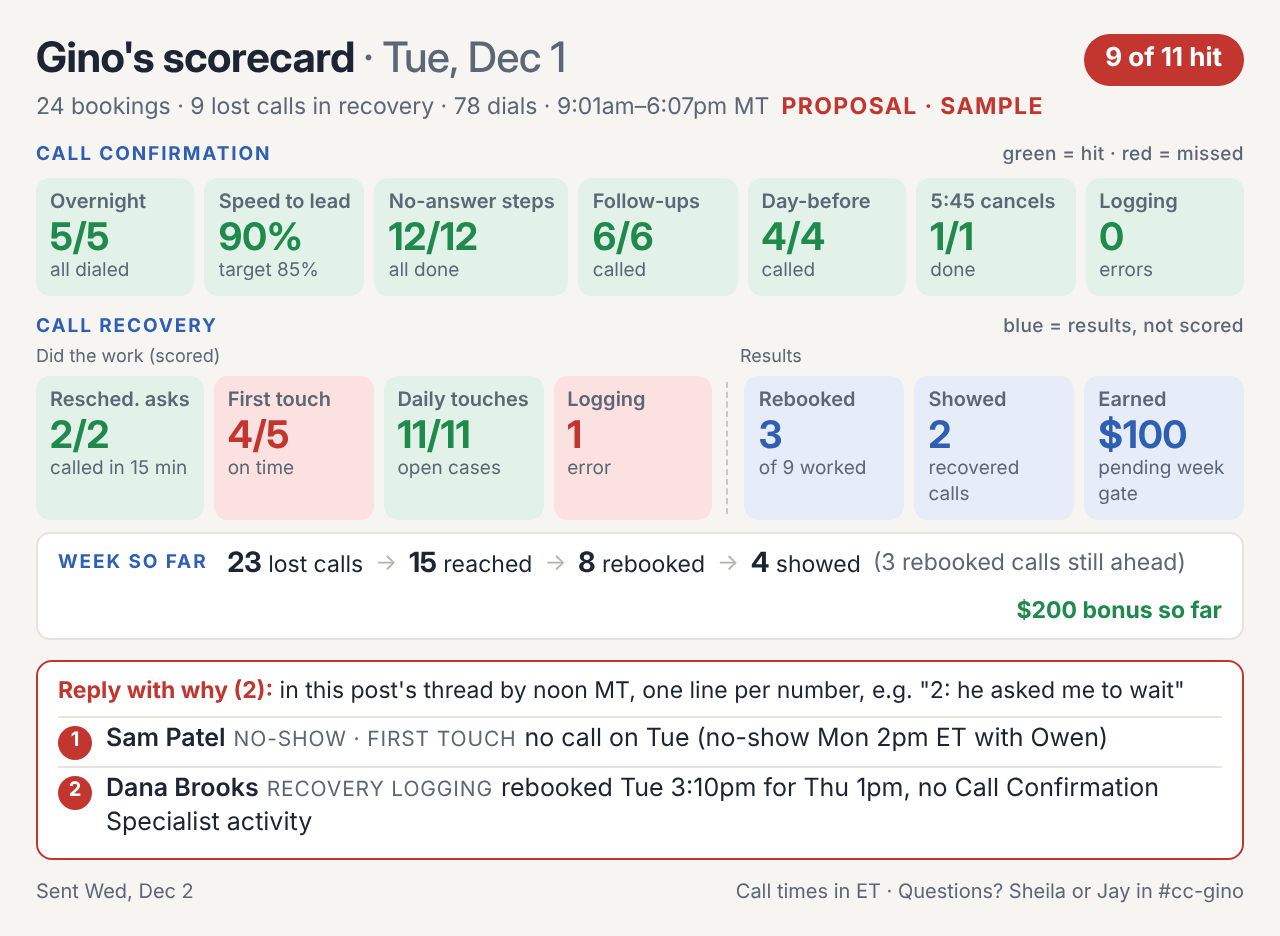
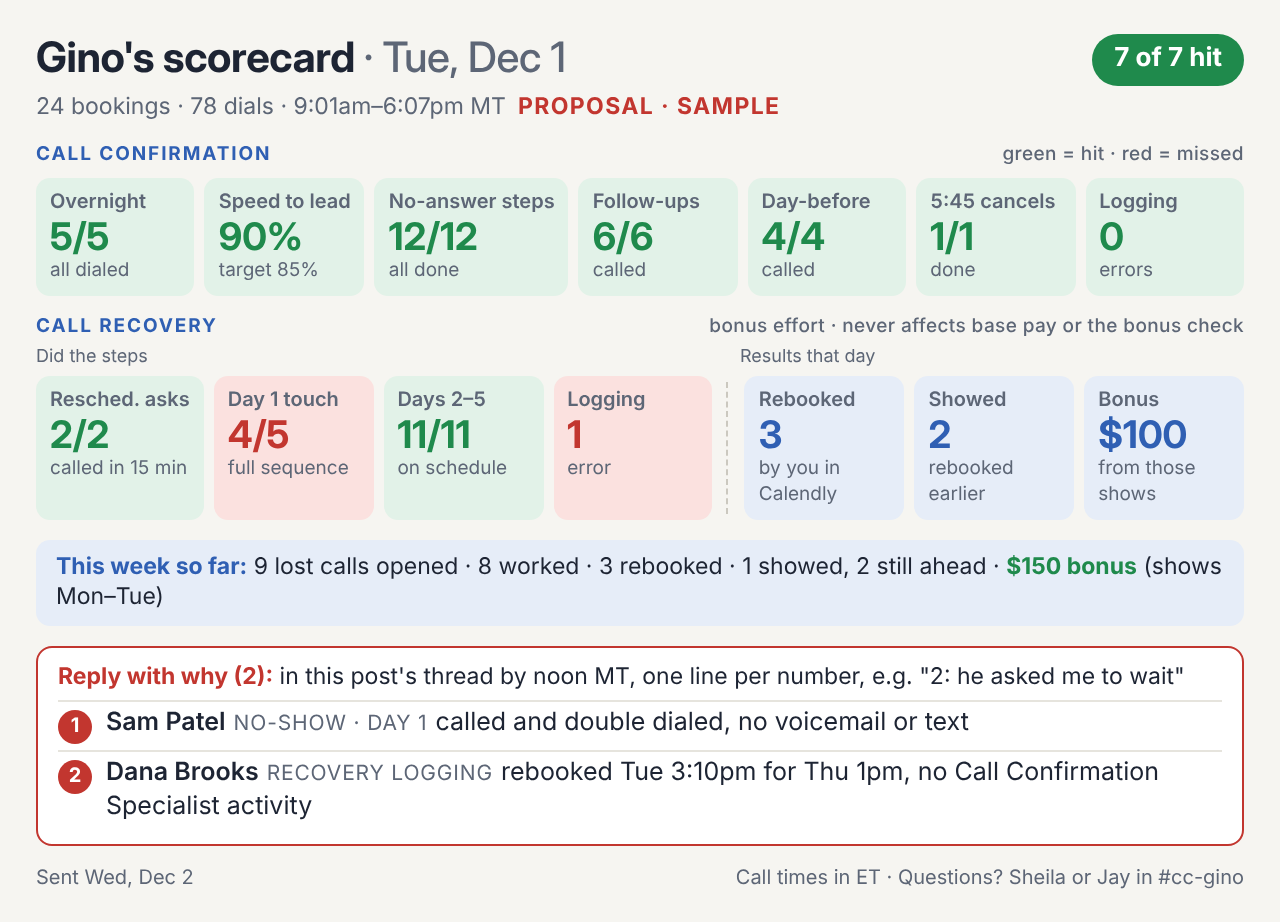
Recovery proposal rev 2: Sheila's answers, Monday card sample
Claude-Session: https://claude.ai/code/session_01D9LMPRREqJ9c3GbMSw9C3k

diff --git a/proposals/call-recovery/mockup/scorecard.html b/proposals/call-recovery/mockup/scorecard.html
@@ -56,67 +56,80 @@
   .funnel .ar { color: #b7b3a8; }
   .funnel .pay { margin-left: auto; color: var(--g); font-weight: 700; }
   .funnel .h { color: var(--b); font-weight: 700; font-size: 9.5px; letter-spacing: .1em; text-transform: uppercase; margin-right: 4px; }
+
+  .wkbox { background:#fff; border:1.5px solid var(--b); border-radius:8px; padding:8px 10px 7px; margin-bottom:10px; }
+  .wkbox h3 { font-size:11.5px; color:var(--b); margin-bottom:5px; }
+  .wkbox h3 span { color:var(--muted); font-weight:500; }
+  .fn { display:grid; grid-template-columns: repeat(6, 1fr); gap:4px; margin-bottom:6px; }
+  .fn div { background:var(--b-bg); border-radius:6px; padding:4px 6px; }
+  .fn .v { font-family:"Inter Display",Inter,sans-serif; font-size:17px; font-weight:700; color:var(--b); }
+  .fn .n { font-size:9.5px; color:var(--muted); }
+  .fn .pay { background:var(--g-bg); } .fn .pay .v { color:var(--g); }
+  .wkl { font-size:11px; padding:2px 0; border-top:1px solid var(--line); display:flex; justify-content:space-between; }
+  .wkl b { font-weight:600; }
 </style>
 </head>
 <body>
 <div id="app"></div>
 <script>
-/* PROPOSAL MOCKUP, SAMPLE DATA ONLY. Names and numbers are made up. */
-const d = {
+/* PROPOSAL MOCKUP, SAMPLE DATA ONLY. Names and numbers are made up.
+   ?v=day (Tue-Fri card) or ?v=mon (Monday card: Friday + last week's recovery). */
+const V = new URLSearchParams(location.search).get("v") || "day";
+const DAY = {
   day: "Tue, Dec 1", sent: "Sent Wed, Dec 2",
-  stats: "24 bookings · 9 lost calls in recovery · 78 dials · 9:01am–6:07pm MT",
-  conf: [
-    ["Overnight", "5/5", "all dialed", "g"],
-    ["Speed to lead", "90%", "target 85%", "g"],
-    ["No-answer steps", "12/12", "all done", "g"],
-    ["Follow-ups", "6/6", "called", "g"],
-    ["Day-before", "4/4", "called", "g"],
-    ["5:45 cancels", "1/1", "done", "g"],
-    ["Logging", "0", "errors", "g"]
-  ],
-  recEffort: [
-    ["Resched. asks", "2/2", "called in 15 min", "g"],
-    ["First touch", "4/5", "on time", "r"],
-    ["Daily touches", "11/11", "open cases", "g"],
-    ["Logging", "1", "error", "r"]
-  ],
-  recResult: [
-    ["Rebooked", "3", "of 9 worked", "i"],
-    ["Showed", "2", "recovered calls", "i"],
-    ["Earned", "$100", "pending week gate", "i"]
-  ],
-  week: { lost: 23, reached: 15, rebooked: 8, showed: 4, upcoming: 3, pay: "$200" },
-  ask: [
-    ["Sam Patel", "No-show · first touch", "no call on Tue (no-show Mon 2pm ET with Owen)"],
-    ["Dana Brooks", "Recovery logging", "rebooked Tue 3:10pm for Thu 1pm, no Call Confirmation Specialist activity"]
-  ]
+  stats: "24 bookings · 78 dials · 9:01am–6:07pm MT",
+  conf: [["Overnight","5/5","all dialed","g"],["Speed to lead","90%","target 85%","g"],["No-answer steps","12/12","all done","g"],["Follow-ups","6/6","called","g"],["Day-before","4/4","called","g"],["5:45 cancels","1/1","done","g"],["Logging","0","errors","g"]],
+  recEffort: [["Resched. asks","2/2","called in 15 min","g"],["Day 1 touch","4/5","full sequence","r"],["Days 2–5","11/11","on schedule","g"],["Logging","1","error","r"]],
+  recResult: [["Rebooked","3","by you in Calendly","i"],["Showed","2","rebooked earlier","i"],["Bonus","$100","from those shows","i"]],
+  week: "<b>This week so far:</b> 9 lost calls opened · 8 worked · 3 rebooked · 1 showed, 2 still ahead · <b style='color:var(--g)'>$150 bonus</b> (shows Mon–Tue)",
+  ask: [["Sam Patel","No-show · day 1","called and double dialed, no voicemail or text"],["Dana Brooks","Recovery logging","rebooked Tue 3:10pm for Thu 1pm, no Call Confirmation Specialist activity"]]
 };
-const scored = [...d.conf, ...d.recEffort];
-const hit = scored.filter(t => t[3] === "g").length;
+const MON = {
+  day: "Fri, Dec 4", sent: "Sent Mon, Dec 7",
+  stats: "22 bookings · 70 dials · 9:00am–6:02pm MT · day-before and 5:45 = Saturday calls only",
+  conf: [["Overnight","4/4","all dialed","g"],["Speed to lead","100%","target 85%","g"],["No-answer steps","9/9","all done","g"],["Follow-ups","5/5","called","g"],["Day-before","3/3","called","g"],["5:45 cancels","1/1","done","g"],["Logging","0","errors","g"]],
+  recEffort: [["Resched. asks","1/1","called in 15 min","g"],["Day 1 touch","3/3","full sequence","g"],["Days 2–5","12/12","on schedule","g"],["Logging","0","errors","g"]],
+  recResult: [["Rebooked","2","by you in Calendly","i"],["Showed","1","rebooked earlier","i"],["Bonus","$50","from those shows","i"]],
+  weekend: "<b>Weekend (not scored):</b> Sat 3 of 5 new bookings called, 2 accepted · Sun no calls",
+  lastWeek: {
+    range: "Mon Nov 30 – Sun Dec 6",
+    fn: [["21","lost calls"],["19","you worked"],["11","reached"],["7","rebooked"],["3","showed"],["$200","bonus","pay"]],
+    lines: [
+      ["Recovered calls that showed last week", "<b>4</b> (3 from last week's lost calls, 1 from backlog) × $50 = <b>$200</b>"],
+      ["Still ahead", "3 rebooked calls this week, worth up to $150 if they show"],
+      ["By type", "No-shows 9 → 3 rebooked · Cancels 7 → 2 · Reschedule requests 5 → 2"],
+      ["Recovery touches done", "<b>96%</b> (52 of 54) · information only, never affects pay"],
+      ["Backlog", "34 leads worked · 2 rebooked · 1 showed"],
+      ["Found by Zoom, not moved by the closer", "2 leads · label them in Close to work them"]
+    ]
+  },
+  ask: []
+};
+const d = V === "mon" ? MON : DAY;
+const hit = d.conf.filter(t => t[3] === "g").length;
 const tiles = ts => ts.map(([n, v, t, s]) => `<div class="tile ${s}"><div class="n">${n}</div><div class="v">${v}</div><div class="t">${t}</div></div>`).join("");
-const w = d.week;
-
+const lw = d.lastWeek;
 document.getElementById("app").innerHTML = `
   <div class="head"><h1>Gino's scorecard <span>· ${d.day}</span></h1>
-    <span class="score ${hit === scored.length ? "g" : "r"}">${hit} of ${scored.length} hit</span></div>
+    <span class="score ${hit === d.conf.length ? "g" : "r"}">${hit} of ${d.conf.length} hit</span></div>
   <div class="sub">${d.stats}<span class="sample">PROPOSAL · SAMPLE</span></div>
 
   <div class="lbl">Call confirmation<span>green = hit · red = missed</span></div>
   <div class="tiles" style="grid-template-columns: repeat(7, 1fr)">${tiles(d.conf)}</div>
 
-  <div class="lbl">Call recovery<span>blue = results, not scored</span></div>
-  <div class="sublbl"><span>Did the work (scored)</span><span></span><span>Results</span></div>
+  <div class="lbl">Call recovery<span>bonus effort · never affects base pay or the bonus check</span></div>
+  <div class="sublbl"><span>Did the steps</span><span></span><span>Results that day</span></div>
   <div class="tiles rec">${tiles(d.recEffort)}<div class="gap"></div>${tiles(d.recResult)}</div>
-  <div class="funnel"><span class="h">Week so far</span>
-    <span><b>${w.lost}</b> lost calls</span><span class="ar">→</span>
-    <span><b>${w.reached}</b> reached</span><span class="ar">→</span>
-    <span><b>${w.rebooked}</b> rebooked</span><span class="ar">→</span>
-    <span><b>${w.showed}</b> showed</span>
-    <span style="color:var(--muted)">(${w.upcoming} rebooked calls still ahead)</span>
-    <span class="pay">${w.pay} bonus so far</span></div>
+  ${d.week ? `<div class="wk">${d.week}</div>` : ""}
+
+  ${lw ? `<div class="wkbox"><h3>Last week's call recovery <span>· ${lw.range}</span></h3>
+    <div class="fn">${lw.fn.map(([v, n, c]) => `<div class="${c || ""}"><div class="v">${v}</div><div class="n">${n}</div></div>`).join("")}</div>
+    <div style="font-size:9.5px;color:var(--muted);margin:-3px 0 4px">The first five follow last week's lost calls only. Bonus = every recovered call that showed last week, whenever it was lost.</div>
+    ${lw.lines.map(([k, v]) => `<div class="wkl"><span>${k}</span><span>${v}</span></div>`).join("")}</div>` : ""}
 
   ${d.ask.length ? `<div class="ask"><div class="ask-h"><b>Reply with why (${d.ask.length}):</b> in this post's thread by noon MT, one line per number, e.g. "2: he asked me to wait"</div>
     ${d.ask.map(([who, sec, what], i) => `<div class="it"><span class="k">${i + 1}</span><span><b>${who}</b><em>${sec}</em>${what}</span></div>`).join("")}</div>` : ""}
+  ${d.weekend ? `<div class="wk">${d.weekend}</div>` : ""}
   <div class="foot"><span>${d.sent}</span><span>Call times in ET · Questions? Sheila or Jay in #cc-gino</span></div>`;
 </script>
 </body>

diff --git a/proposals/call-recovery/README.md b/proposals/call-recovery/README.md
@@ -1,122 +1,131 @@
 # Proposal: call recovery on Gino's scorecard and tracker
 
-Status: **draft for Sheila's review.** Nothing here is built or live. It sits on a branch until Sheila approves it. When she does, the build updates `docs/DECISIONS.md`, the pipeline, the scorecard and the runbook.
+Status: **draft for Sheila's review (rev 2, Nov 24).** Nothing here is built or live. It stays on a branch until Sheila approves it. When she does, the build updates `docs/DECISIONS.md`, `docs/SOP.md`, the pipeline, the scorecard and the runbook.
 
-Based on the Call Confirmation Quick Guide (Jay, Nov 3, as Sheila pasted it on Nov 23) and the decisions log (rev 8). The Close data is as of Nov 23.
+Sources:
+- Sheila's updated Call Confirmation Quick Guide (pasted Nov 24, with the new Call Recovery section).
+- Her answers in the review session (Nov 23–24).
+- Close as of Nov 24.
 
 Mockups (sample data, made-up names):
-- `mockup/scorecard.png`: the daily card with the recovery row filled in.
-- `mockup/tracker-recovery.png`: the new Recovery tab, the new Daily and Weekly columns, and the changes to the Management tab.
+- `mockup/scorecard.png`: the Tue–Fri card with the recovery row.
+- `mockup/scorecard-monday.png`: the Monday card. It shows Friday, plus last week's full recovery numbers.
+- `mockup/tracker-recovery.png`: the recovery tab, the new Daily/Weekly columns, and the Management changes. **This is rev 1. It still shows the old D1–D5 rules and a gate; it will be redrawn to match the rules below.**
 
 ---
 
-## What I found first
+## Rules (decided with Sheila, Nov 23–24)
 
-1. **Gino has logged no recoveries yet.** There are 4 "Call Confirmation Specialist" activities in Close, all logged by Jay on Nov 3–9, before Gino started. So far no one has measured recovery, and the bonus is still typed in by hand.
-2. **There's enough volume to measure.** Since Nov 10, closers moved 70 opportunities to *No Show/Cancel* and 38 to *Reschedule Request* in the Sales pipeline. That's roughly 50 a week. Some are closers' follow-up calls, so they're out of scope.
-3. **The pasted SOP and the repo's SOP disagree on where recoveries book.**
-   - Pasted (Nov 3 text): every recovery goes to the closers' round robin, `sdrb_c2_startnow`.
-   - Repo `docs/SOP.md` and decisions log rev 7 (Nov 19): reschedule requests go to the closers, and no-shows and cancels go to the setter calendar, `emorg_intro`.
-   - This matters for the bonus: we need to know which booked call has to "show". See decision 3.
-4. **The SOP says when he recovers, but not what one touch is.**
-   - Confirmation spells out each touch: double dial, then voicemail, then text where it applies.
-   - Recovery has a No-show text and a Cancel text, but no rule for when they're sent. See decision 2.
-5. **Two open items in the decisions log are now answered by the SOP:**
-   - Cancel cadence: same day, then once a day.
-   - Window: 5 business days, for no-shows, cancels and reschedule requests alike.
-6. **The recovery smart views aren't visible through the API.** "Newest - No Shows", "Newest - Cancels", "Newest - Reschedule Requests" and "Backlog" don't appear in the smart view list. They're probably private to Gino. The tracker will find recovery cases from the pipeline stages and Calendly instead, the same way confirmation uses Slack alerts first.
+### Pay: recovery never gates anything
+- Recovery is Gino's discretionary effort for the bonus. **Nothing in recovery affects his base pay, his base KPIs or whether he gets the bonus.**
+- **$50 per recovered call that shows.** This applies to no-shows, cancels and reschedule requests alike, and counts recoveries from **Nov 24** on, once the routine is turned on.
+- Recovery touches are tracked and shown as a KPI. That KPI is **information only**.
 
----
+### Where recoveries book
+- Every recovery books on the **closers' round robin**, `https://calendly.com/smb-st/sdrb_c2_startnow`.
+- The repo's old SOP said "setter calendar for no-shows and cancels". That is out of date.
 
-## The core idea: one "case" per lost call
+### When a row is added (a "case")
+- **A row is added when a lead lands in recovery.** That means one of these lead statuses:
+  - `No Show - Recovery`
+  - `Cancelled - Recovery`
+  - `Reschedule Request - Recovery`
+- **The 5:45 day-before cancels count** as lost calls to recover.
+- **Backlog leads** (the Backlog smart view) get a row the first time Gino touches one.
+- **Lost calls found only by the Zoom backstop** (the closer never moved them in the pipeline):
+  - They appear on the tracker and are flagged.
+  - They're **not scored**, because they never reached Gino's smart views or Slack.
+  - Gino can label them in Close and work them. A rebook that shows still earns the $50.
 
-Confirmation is checked call by call, at checkpoints. Recovery works differently. A case:
-- opens when a call is lost;
-- stays open up to 5 business days;
-- ends when the lead is rebooked, the window runs out, or the lead says no;
-- pays only later, if the new call shows.
+### The 5-business-day sequence starts at his first attempt
+- The clock starts at **Gino's first attempt**, not when the lead lands in recovery.
 
-So the tracker gets **one row per lost call (a "case")** with a day-by-day touch grid. The scorecard reads its daily numbers from those rows.
+| Day | Due | Call Recovery field |
+|---|---|---|
+| 1 | Call → double dial → recovery voicemail + the Day 1 text for the type (no-show, cancel or reschedule request) | Day 1 Recovery - No Pickup, Double Dial, VM, Text |
+| 2 | Call only | Day 2 Recovery - No Pickup |
+| 3 | Call + Day 3 voicemail + Day 3 text | Day 3 Recovery - No Pickup (see note) |
+| 4 | Call only | Day 4 Recovery - No Pickup |
+| 5 | Call + breakup voicemail + breakup text, then stop | Day 5 Recovery - No Pickup, Double Dial, VM, Text |
 
-**A case opens when (proposed):**
+- **The sequence ends early when:**
+  - he rebooks the lead (field = Rebooked);
+  - the lead says "not interested" or "already bought";
+  - he sets a callback task.
+- **Closer exception:** if the closer is already rescheduling the lead, Gino stays out, and those days aren't counted against him. He takes over if the closer sent their own calendar link and the lead hasn't replied in 24 hours.
+- **Reschedule requests** are called within 15 minutes if they come in during his shift, as the SOP's "right away" (open item A).
+- After a rebook, the new call is a **new booking** and goes through normal confirmation, including the day-before 5:45 cancel.
 
-| Type | Found by | First touch due | Then |
-|---|---|---|---|
-| Reschedule request | Opportunity moved to *Reschedule Request* (Sales pipeline) | Within 15 min if it comes in during his shift; first 30 min of his next shift if it comes in overnight (like speed to lead) | Once a day |
-| No-show | Opportunity moved to *No Show/Cancel* after the call time, or a same-day cancel (show-rate rule, decisions log section 8) | Next business day | Once a day |
-| Cancel | Calendly cancel, or *No Show/Cancel* before the call day | Same day (next shift if it comes in after his shift) | Once a day |
+### Credit for a rebook
+Gino earns the credit only if **all** of these hold:
+1. He touched the lead after it entered recovery, and before the rebook.
+2. The rebook is on the closers' round robin, not a closer's personal calendar.
+3. **Gino is the scheduler on the Calendly event.** He books the lead in himself and never sends the link.
+4. Nobody else tried to rebook the lead in between.
 
-**A case ends when:**
-- he rebooks the lead;
-- 5 business days pass;
-- the lead says "not interested" or "already bought";
-- the closer already spoke with the lead (the closer handles it);
-- he set a callback task, which moves the next touch due to the task's date;
-- the lead has already been rebooked twice (the max-2 rule).
+The bonus pays only when the lead **shows** to that rebooked call. "Showed" uses the existing source order (#closer-eod, then Zoom).
+- $50 is paid **once per original lost call**.
+- At most 2 rebooks per person. If the rebooked call no-shows, the same case reopens.
 
-Only in-scope calls count: discovery calls booked directly with an Enrollment Advisor, the same scope as confirmation. Calls lost before the start date (the backlog) are never scored for touches. If one of them rebooks and shows, it still earns the $50 (decisions log section 7).
-
-**Credit and bonus:** these follow the existing rules.
-- He gets credit if he logged any contact in Close after the lost call and before the rebook, whoever made the booking.
-- The bonus is $50 once per original lost call, when a rebooked call shows. "Showed" uses the existing source order: #closer-eod, then Zoom.
-- If the rebooked call no-shows, the same case reopens. It can earn $50 at most once.
-
----
-
-## Scorecard (see `mockup/scorecard.png`)
-
-The confirmation row stays as it is. The recovery row has two halves:
-
-**Did the work (scored, green or red; counts toward "X of N hit"):**
-
-| Tile | Hit when |
-|---|---|
-| Resched. asks | Every reschedule request that came in during his shift was called within 15 min |
-| First touch | Every new case got its first touch on the day it was due |
-| Daily touches | Every open case got its touch that day (days 2–5) |
-| Logging | Zero recovery logging errors. An error is either of these: a rebook with no Call Confirmation Specialist activity, or an activity with no booking behind it or the wrong "Recovered from?" |
-
-**Results (blue, information only):**
-- Rebooked that day, out of the cases he worked.
-- Recovered calls that showed that day.
-- Bonus earned that day. It's marked "pending week gate" until the week is approved.
-
-**Week-so-far strip:**
-- Shows lost calls → reached → rebooked → showed, how many rebooked calls are still ahead, and the bonus so far.
-- It ties his daily work to his pay without making results pass/fail.
-
-Recovery misses join the same "Reply with why" list, labelled by type and step (for example `NO-SHOW · FIRST TOUCH`). They follow the same Reviews and Slack decision flow as confirmation misses.
-
-Why results are blue rather than red or green: a rebook depends partly on the prospect, and 2 weeks of data is too little to set a fair target. I suggest we look at 3–4 weeks of numbers first, then decide whether rebook rate gets a target.
+Open item B below covers how the tracker proves #3.
 
 ---
 
-## Tracker (see `mockup/tracker-recovery.png`)
+## Scorecard
+
+**Tue–Fri card** (`mockup/scorecard.png`)
+- **The confirmation row stays as it is.** The "X of 7 hit" pill counts **confirmation only**.
+- **The recovery row has two halves.**
+  - **Did the steps** (green or red, information only). Each tile is a hit when:
+    - **Resched. asks:** reschedule requests during his shift were called within 15 minutes.
+    - **Day 1 touch:** every Day 1 had the full sequence (call, double dial, voicemail, text).
+    - **Days 2–5:** every case due a touch that day got the right one.
+    - **Logging:** no recovery logging errors. Those are:
+      - the Call Recovery field doesn't match what he did;
+      - a rebook with no Call Confirmation Specialist activity;
+      - an activity with no booking behind it.
+  - **Results that day** (blue). Each counts events that happened **on the scored day**:
+    - **Rebooked:** leads Gino booked in Calendly that day, whenever they were lost.
+    - **Showed:** recovered calls that showed that day. They were rebooked on an earlier day, so this is the payoff of past work.
+    - **Bonus:** those shows × $50.
+- **"This week so far" line:** the lost calls opened this week and how far they've got, plus this week's bonus. The bonus counts by the week the recovered call shows.
+- **Recovery misses** go in the same "Reply with why" list and the same Slack decision flow.
+
+**Monday card** (`mockup/scorecard-monday.png`)
+- It covers Friday as usual, plus a **"Last week's call recovery"** box. The box has:
+  - **The funnel of last week's lost calls only:** lost → worked → reached → rebooked → showed.
+  - **The bonus:** every recovered call that showed last week, whenever it was lost, split into this week's and backlog.
+  - **Still ahead:** rebooked calls still to come, and what they could earn.
+  - A **by-type** line, **recovery touches %** (information only), **backlog** worked/rebooked/showed, and **found by Zoom, not moved by the closer**.
+
+---
+
+## Tracker
 
 | Tab | Change |
 |---|---|
-| **Recovery** (new, built each night) | One row per case:<br>- the lost call (lead, advisor, original time, type, how it was found);<br>- D1–D5 touches (✓, ✗ or –, with what he did);<br>- status and rebook details (when, new call, calendar);<br>- logged in Close?;<br>- new call result, credit, bonus. |
-| **Daily / Weekly** | New recovery columns to the right of the confirmation columns:<br>- effort (scored): reschedule asks in 15 min, first touches on time, daily touches done, logging errors;<br>- results: open, reached, rebooked, showed, bonus. |
-| **Reviews** | Recovery misses and logging errors are added the same way as now, with a "Recovery" section label. They're decided the same way from #cc-gino. |
-| **Management** | "Recovered calls that showed" comes from the Recovery tab instead of being typed in. Optional new **KPI 4**: recovery touches at 100% after excused misses. Recovery logging joins KPI 3. A new "rebooked calls still ahead" column, for information. |
-| **Definitions** | Adds the recovery rules above. |
-| **Call Recovery** (Sheila's tab) | Not touched. See decision 7. |
-| Supabase | Two new tables, `call_confirm_recovery_cases` and `call_confirm_recovery_touches`. Creating them is DDL, so it needs Sheila's approval. The nightly standing approval already covers upserts into `call_confirm_*` tables. |
+| **Recovery** (new, built each night) | One row per case:<br>- the lost call (lead, advisor, original time, type, how it was found);<br>- first attempt and Days 1–5 (due vs done, what he did, the field value he logged);<br>- status and end reason;<br>- rebook (when, the new call, calendar, scheduler = Gino?, logged?);<br>- the new call's result, credit, bonus and bonus week. |
+| **Daily / Weekly** | Recovery columns to the right of the confirmation columns: the steps (information only) and the results. |
+| **Reviews** | Recovery misses and logging errors, with a "Recovery" label, decided the same way from #cc-gino. They are never part of the bonus check. |
+| **Management** | "Recovered calls that showed" is counted from the Recovery tab instead of typed in. Recovery stays out of the KPIs and the "Compliant" check. The bonus = recovered shows × $50, approved weekly by Sheila and Jay as now. A "rebooked calls still ahead" column is added for information. |
+| **Definitions** | Adds the rules above. |
+| Supabase | Two new tables, `call_confirm_recovery_cases` and `call_confirm_recovery_touches`. Creating them is DDL, so it needs Sheila's approval. |
+
+**Question 7, the empty "Call Recovery" tab.** The tracker already has a tab called "Call Recovery". It's empty, like a section divider, the same as "Call Confirmation>>". **Proposal:**
+- Rename it **"Call Recovery>>"** so it works as a divider.
+- Put the new recovery tab(s) right after it.
+
+Sheila decides.
 
 ---
 
-## Decisions needed from Sheila (and Jay where noted)
+## Still open
 
-1. **When recovery counts toward the gate.** I propose showing it on the card and tracker from the start date, as practice, and adding it to the weekly gate (KPI 4) 1–2 weeks later. Alternative: fold it into KPI 1 right away.
-2. **What one recovery touch is.**
-   - My proposal (like a welcome call): double dial → no answer → voicemail.
-   - On the first touch, also send the No-show or Cancel text.
-   - No text on days 2–5.
-   - A reschedule request gets the same touch, with no text (or a text?).
-   - Jay to confirm.
-3. **Where no-shows and cancels book: closers' round robin (pasted SOP) or the setter calendar (repo SOP, Nov 19)?** If the setter calendar: does the $50 pay when the setter intro call shows, or only when a later closer call shows?
-4. **Does a 5:45 day-before cancel open a cancel recovery case?** The cancel text invites a rebook, so I'd say yes.
-5. **The start date** for scoring recovery touches, e.g. Mon Nov 30 or Mon Dec 7. Before that date the work is shown, and only the bonus is counted.
-6. **Should a whole-week results line go on Monday's card?** The Monday card would add last week's full recovery funnel and bonus to its usual layout.
-7. **Your "Call Recovery" tab.** Keep it as your own and put the pipeline in a new "Recovery" tab (my default), or should the pipeline take it over?
-8. **Pipeline stage discipline.** Closers moving the opportunity is the trigger, as the decisions log section 10 says. Should the tracker list lost calls the closer never moved (found by the Zoom backstop) as cases too? I'd say yes, flagged "found by backstop" and not scored until the closer moves the opportunity.
+| # | Item | Proposed |
+|---|---|---|
+| A | Reschedule request "right away" | Within 15 minutes during his shift; first 30 minutes of the next shift if it comes in overnight |
+| B | **Proving Gino was the scheduler in Calendly** | To check: whether Calendly's booking data names who booked on the invitee's behalf. If it doesn't, the fallback is "Gino had a live call or text with the lead in Close in the minutes before the booking was created". Sheila to approve whichever proves reliable. |
+| C | Days 2–5: one dial or a double dial? | One dial, unless the SOP says otherwise |
+| D | Close field fixes (Sheila's call, nothing changed) | Rename "Day 3 Recovery - No Pickup" to include VM + Text. Add choices for "Not interested" and "Callback set", so a case can end early for the right reason. |
+| E | "Call Recovery - Follow-up" smart view | Add a "not called today" filter, or sort by last call, so he doesn't call anyone twice or skip anyone |
+| F | Call Recovery tab naming (question 7 above) | Rename it to a divider; new tabs go after it |
